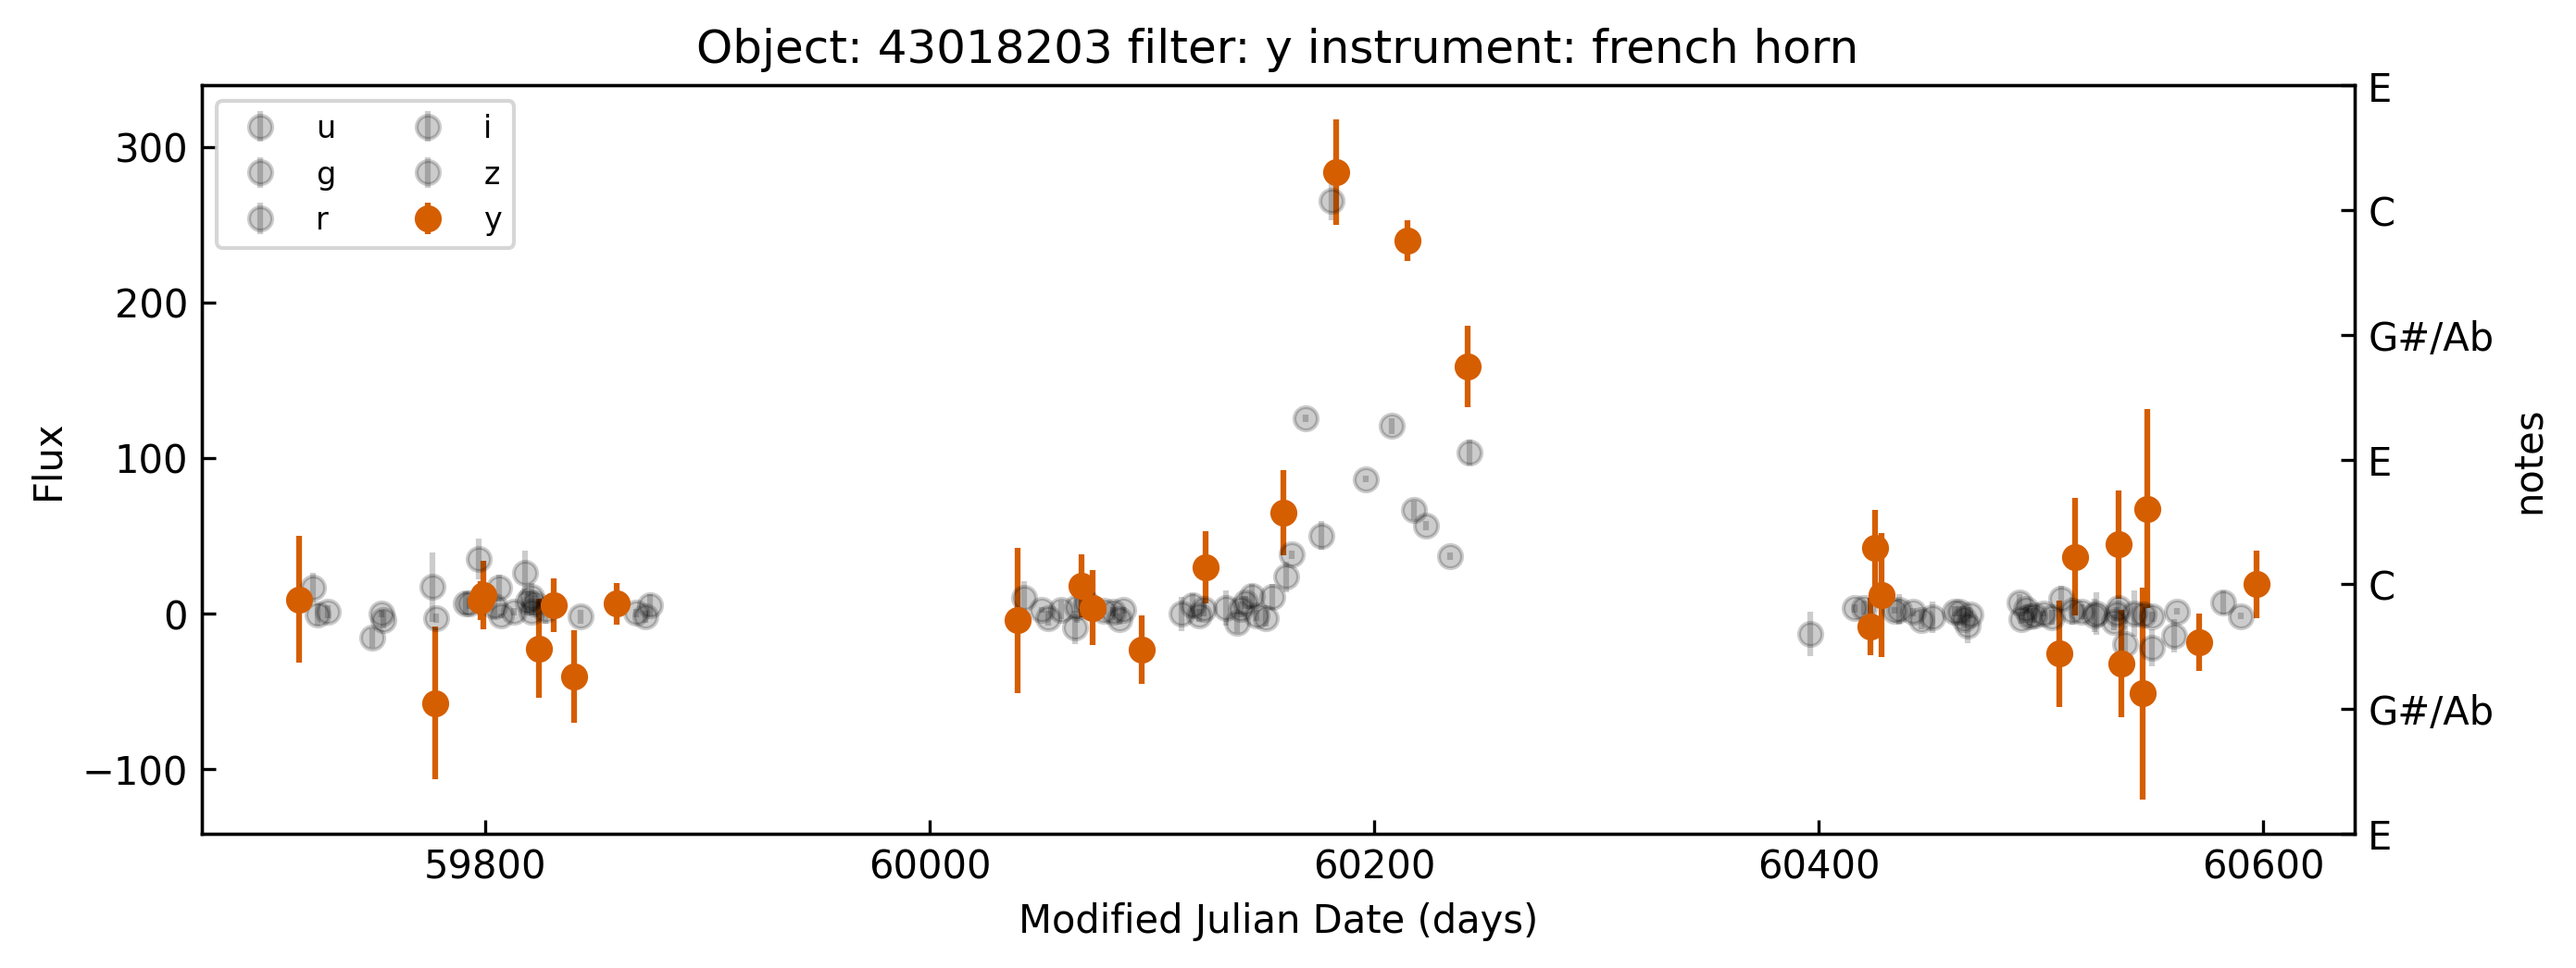
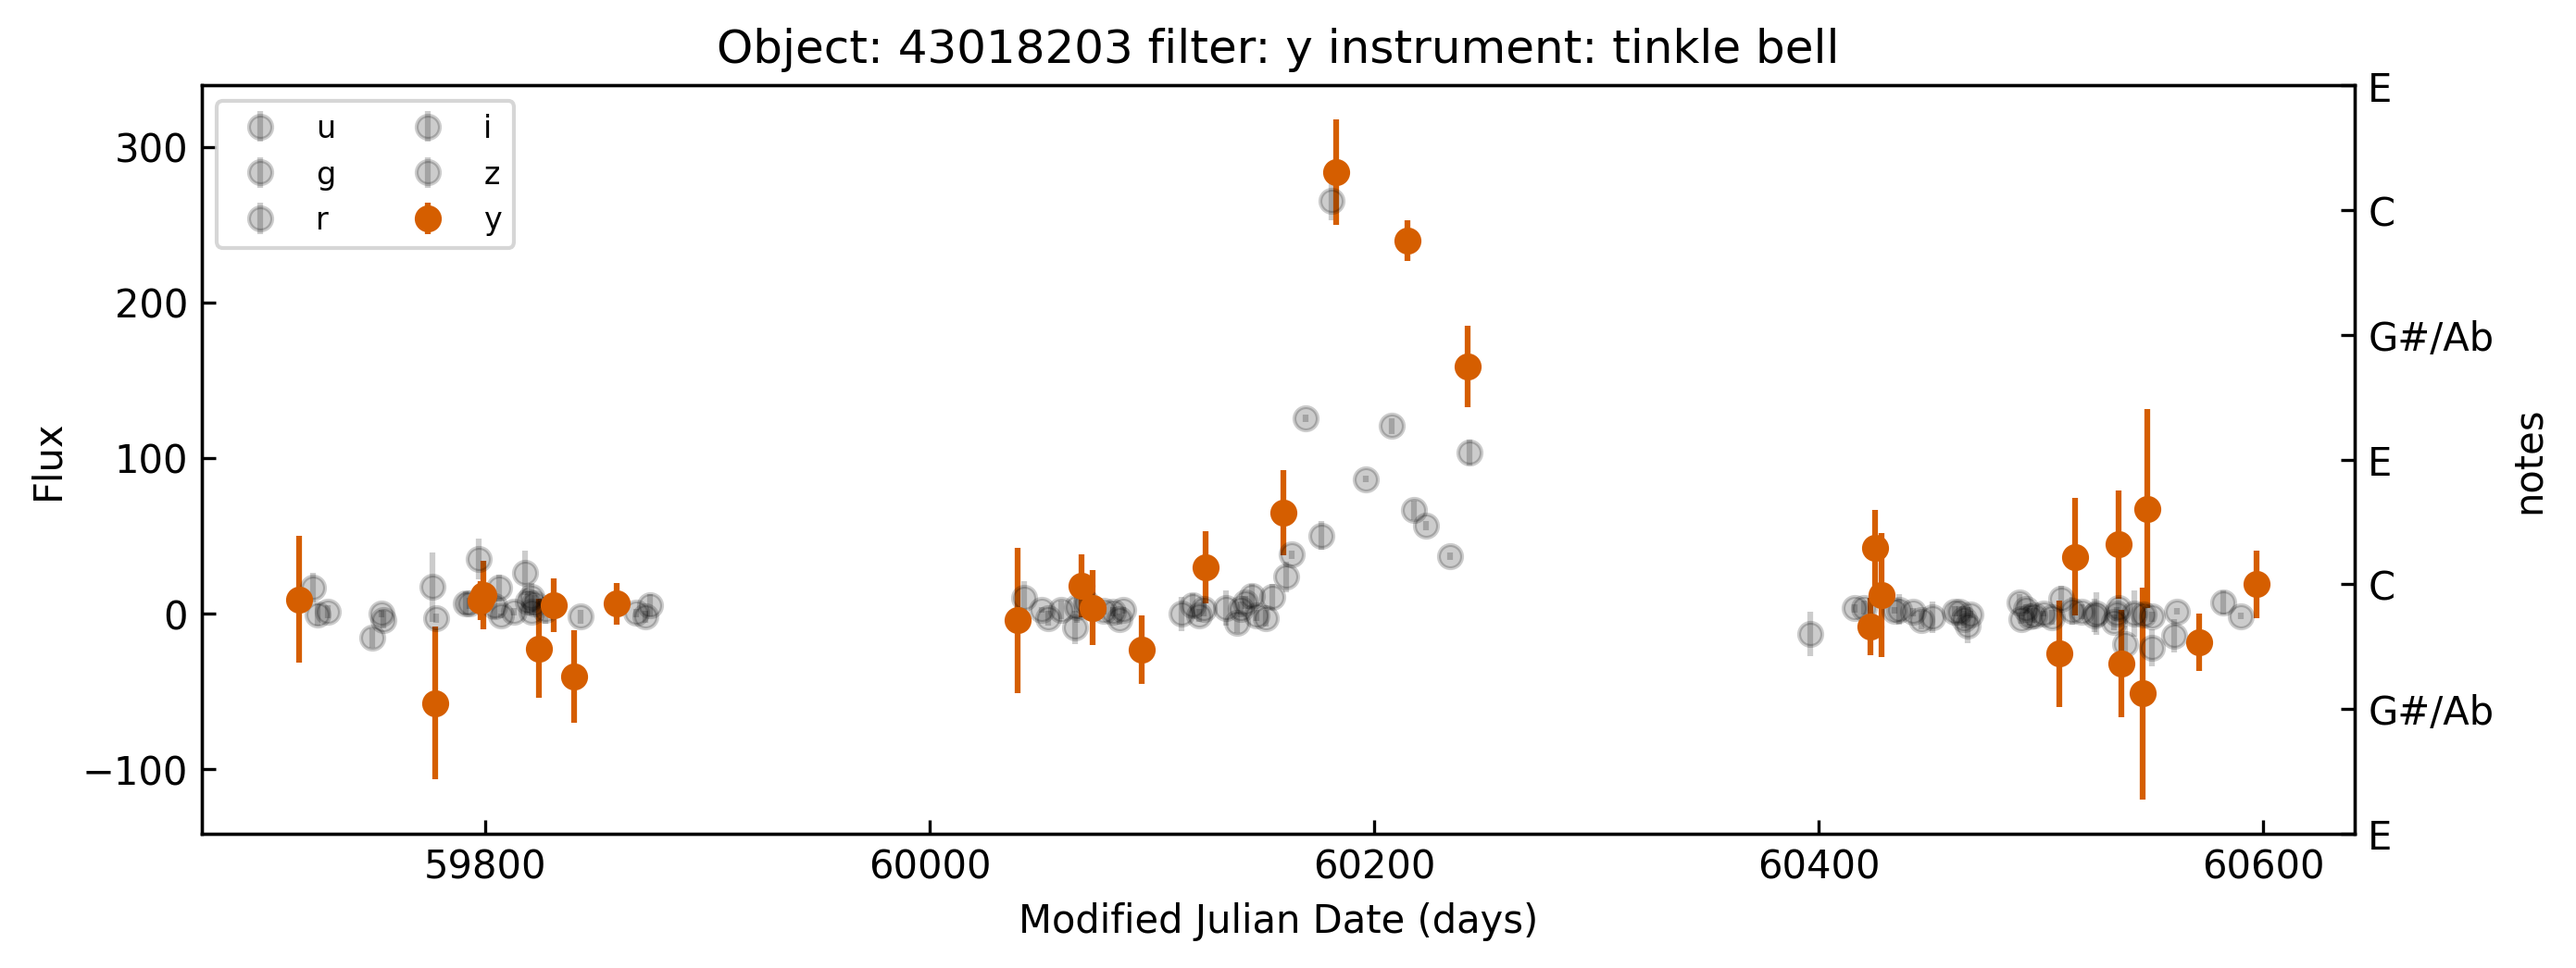
merging detched head

Changed region(s): [[0.2782, 0.0306, 0.7419, 0.0918]]

diff --git a/RRhapsodies/main.py b/RRhapsodies/main.py
@@ -10,15 +10,17 @@ if __name__ == '__main__':
     data, metadata = rr_utils.readdata()
     thisband = 'r'
     object = 43018203 #2677 #43018203 # 615 #2677
-    if False:
-        for thisband in ['u', 'g', 'r', 'i', 'z', 'y']:
+    if True:
+        for thisband in ['y']:
+            #['u', 'g', 'r', 'i', 'z', 'y']:
             print("object:", object, "band", thisband, configs.INSTRUMENTS[thisband],
                   "transpose:", configs.TRANSPOSITIONS[thisband], "thirds up")
             rr_utils.singleSonification(data, object, filter=thisband,
-                                instrument=configs.INSTRUMENTS[thisband],
+                                instrument="tinkle bell",
+                                        volume=100,#configs.INSTRUMENTS[thisband],
                                 transposing=True, rescaled=True,
                                 key=configs.KEY, save=True, plot=True)
 
-    rr_utils.multiSonification(data, object, key=configs.KEY,
-                               drone="step", drum='crash cymbal 1',
-                               save=True, plot=True, verbose=True)
+    #rr_utils.multiSonification(data, object, key=configs.KEY,
+    ##                           drone="step", drum='crash cymbal 1',
+     #                          save=True, plot=True, verbose=True)
